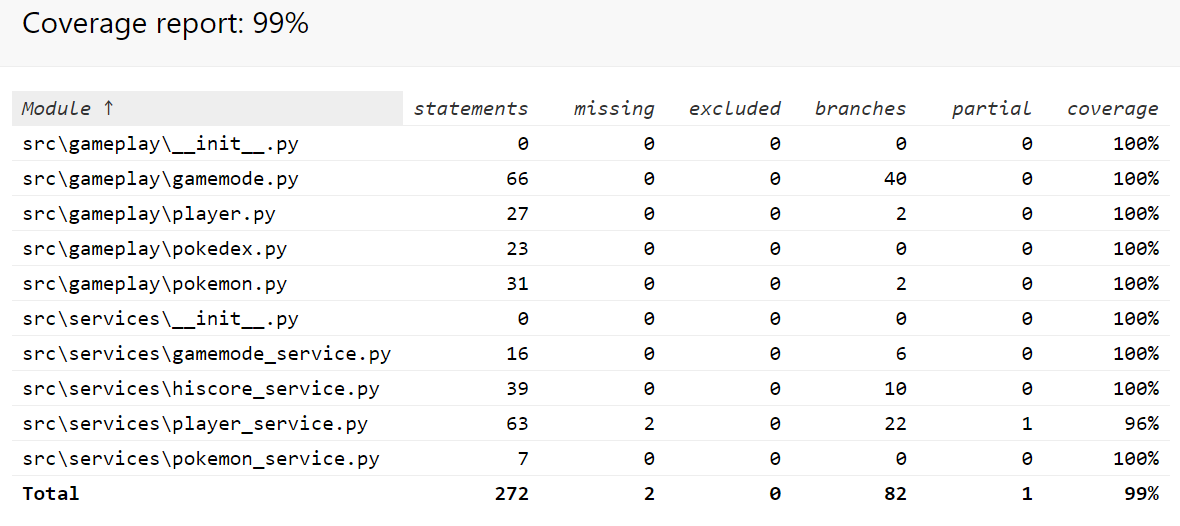
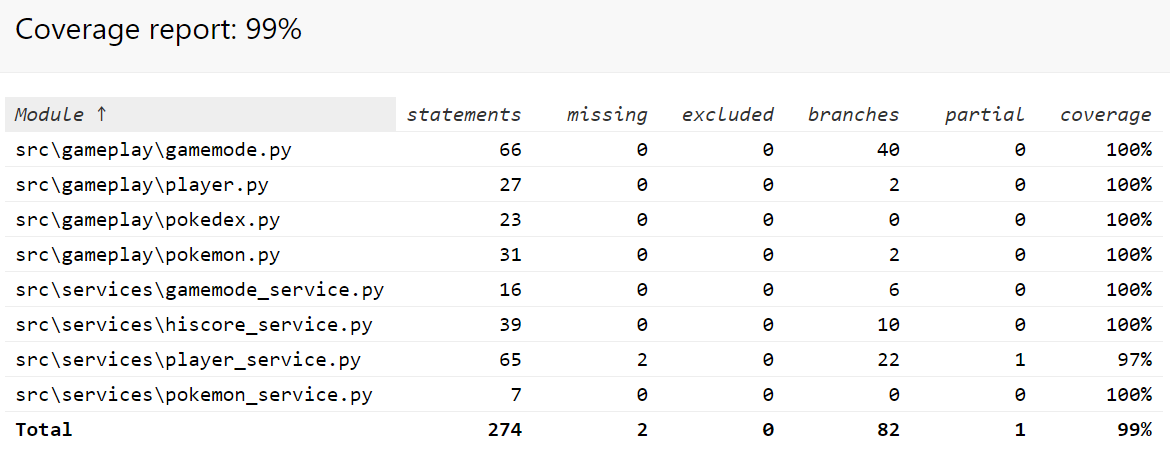
fixed problems with accents, added test

diff --git a/src/test/player_service_test.py b/src/test/player_service_test.py
@@ -83,6 +83,26 @@ class TestPlayerService(unittest.TestCase):
         self.assertFalse(correct)
         self.assertFalse('Correct!' in text)
 
+    def test_check_answer_ignores_accents(self):
+        genchoice = [1,1,1,1,1,1,1,1,1,1,1,1]
+        pokedex = Pokedex(gs.create_pokedex_df(genchoice))
+
+        pokemon = pokedex.get_random_pokemon()
+
+        pokemon_name = pokemon.get_name()
+        player_guess = pokemon.get_name().replace('a', 'á')
+        player_guess = player_guess.replace('e', 'é')
+        player_guess = player_guess.replace('i', 'í')
+        player_guess = player_guess.replace('o', 'ó')
+        player_guess = player_guess.replace('u', 'ú')
+        player_guess = player_guess.replace('y', 'ý')
+
+        correct, text = ps.check_answer(pokemon, player_guess)
+
+        self.assertTrue(correct)
+        self.assertTrue('Correct!' in text)
+        self.assertNotEqual(player_guess, pokemon_name)
+
     def test_correct_answer_raises_points_and_answers(self):
         genchoice = []
         genchoice.append(1)

diff --git a/src/services/player_service.py b/src/services/player_service.py
@@ -1,3 +1,4 @@
+import unidecode as ud
 from PIL import Image, ImageTk
 
 def check_answer(pokemon, answer):
@@ -23,6 +24,9 @@ def check_answer(pokemon, answer):
     if pokemon_name == 'gigantamax flapple' and 'appletun' in answer:
         pokemon.set_name('gigantamax appletun')
         pokemon_name = pokemon.get_name().lower()
+
+    pokemon_name = ud.unidecode(pokemon_name)
+    answer = ud.unidecode(answer)
 
     full_name = pokemon.get_full_name().upper()
 

diff --git a/src/test/hiscore_service_test.py b/src/test/hiscore_service_test.py
@@ -13,7 +13,7 @@ from gameplay.pokedex import Pokedex
 class TestHiscoreService(unittest.TestCase):
     def setUp(self):
         self.table_filepath = 'src/data/hiscores.csv'
-        print('Hiscore save test initiation')
+        print('Hiscore service test initiation')
 
     def test_initialization_creates_hiscore_table_if_doesnt_exist(self):
         if os.path.exists(self.table_filepath):

diff --git a/src/test/pokemon_service_test.py b/src/test/pokemon_service_test.py
@@ -8,7 +8,7 @@ import services.pokemon_service as pks
 
 class TestPokemonService(unittest.TestCase):
     def setUp(self):
-        print('Pokedex service test initiation')
+        print('Pokemon service test initiation')
 
     def test_photoimage_functions_return_photoimages(self):
 

diff --git a/src/test/player_test.py b/src/test/player_test.py
@@ -8,7 +8,7 @@ from gameplay.pokedex import Pokedex
 
 class TestPlayer(unittest.TestCase):
     def setUp(self):
-        print('Player score test initiation')
+        print('Player test initiation')
 
     def test_player_initializes_correctly(self):
         genchoice = []
